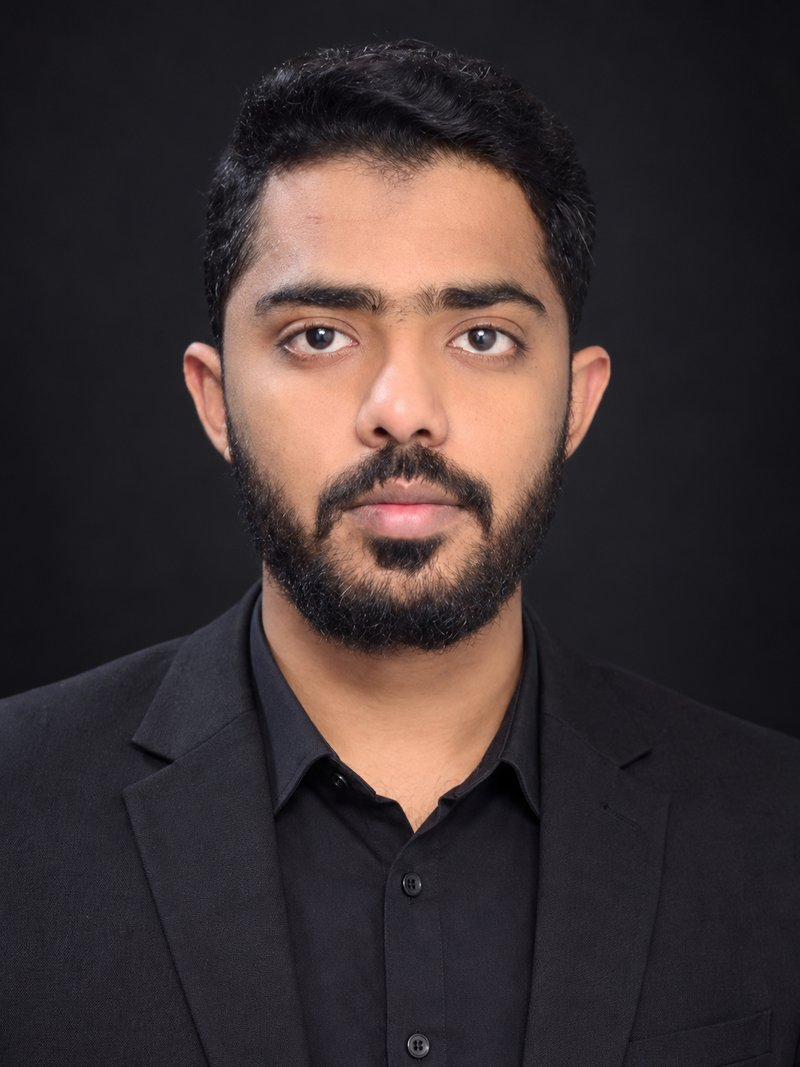
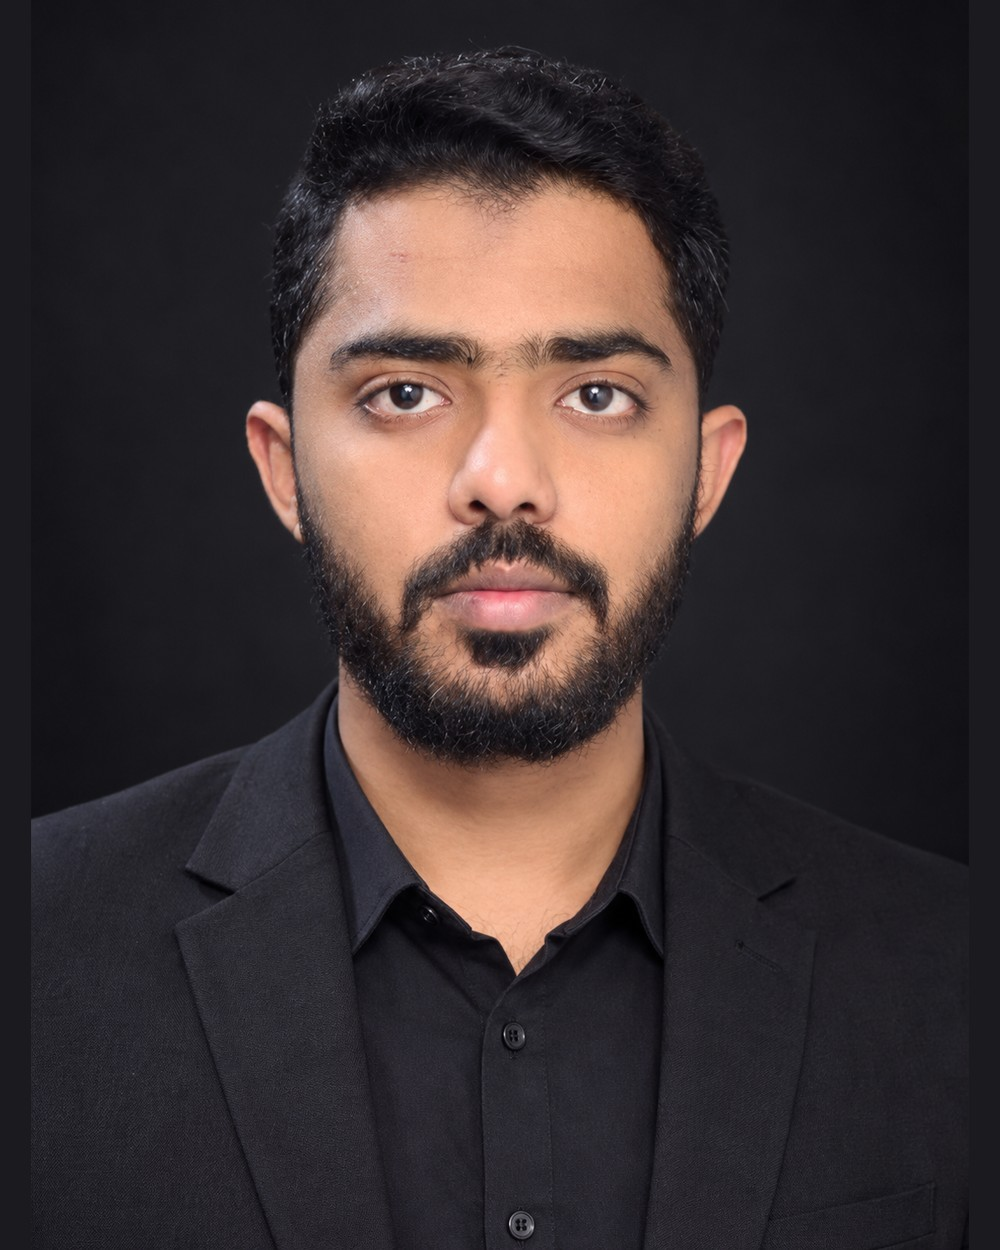
Update portfolio to v2.3: complete premium headshot

diff --git a/index.html b/index.html
@@ -75,11 +75,11 @@ details p{margin:.7rem 0 0;color:var(--mut)}
 footer{border-top:1px solid var(--line);padding:2rem 0;font:.8rem var(--m);color:var(--mut)}
 .about-grid{display:grid;gap:1.5rem;align-items:start}
 .headshot{margin:0}
-.headshot img{width:100%;max-width:14rem;aspect-ratio:3/4;object-fit:cover;border-radius:.75rem;border:1px solid var(--line);display:block;margin:0 auto}
+.headshot img{width:100%;height:auto;max-width:16rem;border-radius:.75rem;border:1px solid var(--line);display:block;margin:0 auto;box-shadow:0 12px 32px rgba(0,0,0,.45)}
 .headshot figcaption{font:.75rem var(--m);color:var(--mut);margin-top:.5rem}
 @media(min-width:48rem){
 .about-grid{grid-template-columns:20rem 1fr}
-.headshot img{max-width:16rem}
+.headshot img{max-width:18rem}
 }
 @media(min-width:48rem){
 .g2{grid-template-columns:1fr 1fr}
@@ -242,7 +242,7 @@ section{padding:5rem 0}
 <span class="lab">About</span>
 <h2>Muhammad Saad Ranjha</h2>
 <div class="about-grid">
-<figure class="headshot"><img src="headshot.jpg" alt="Portrait of Muhammad Saad Ranjha" width="800" height="1067"><figcaption>Muhammad Saad Ranjha — founder, NeedCraft.</figcaption></figure>
+<figure class="headshot"><img src="headshot.jpg" alt="Portrait of Muhammad Saad Ranjha" width="1000" height="1250"><figcaption>Muhammad Saad Ranjha — founder, NeedCraft.</figcaption></figure>
 <div>
 <p>I'm Muhammad Saad Ranjha. I run NeedCraft and its daily content operation across nine platforms. I'm early-career and I have zero paid clients so far. Instead of inventing credentials, I prove my process on my own brands, and everything on this page about my results can be checked on the live profiles.</p>
 <p class="mut">If you want to see how I work before you hire me, look at the profiles below and email me.</p>
